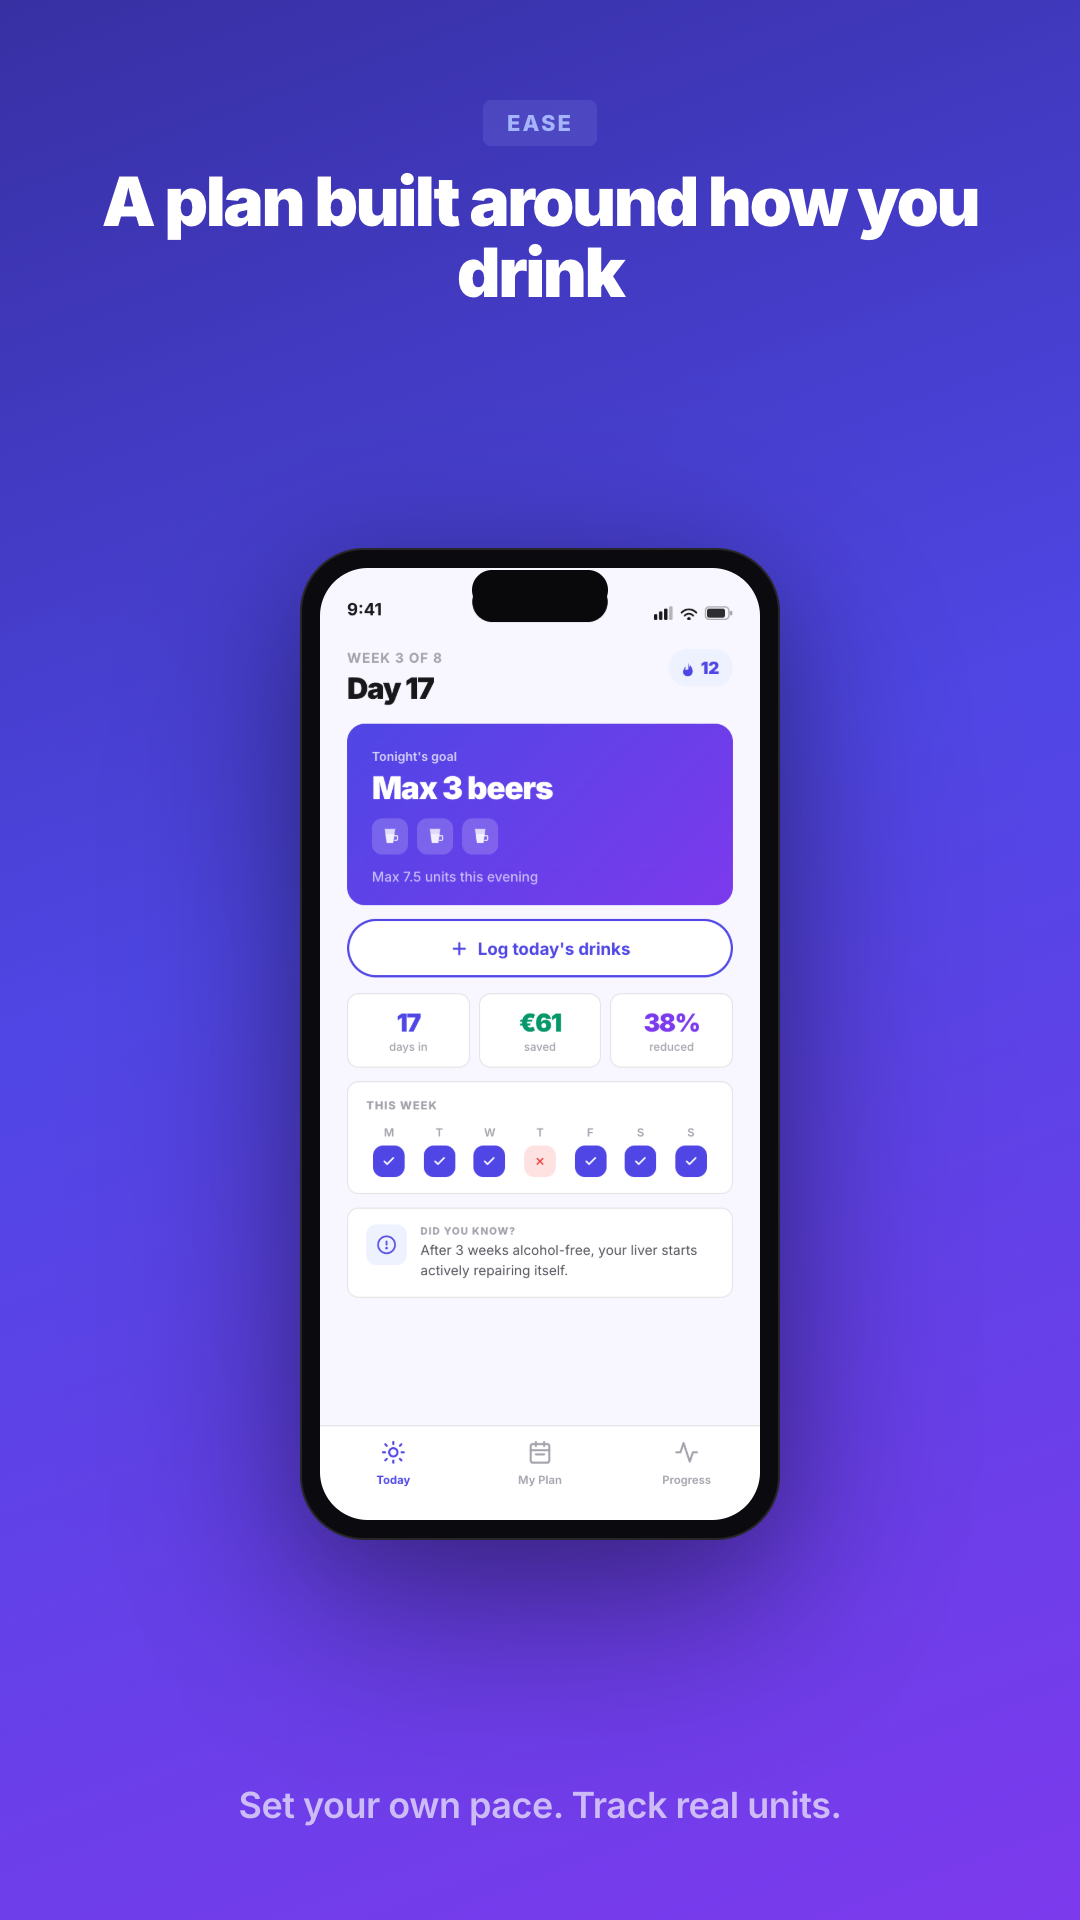
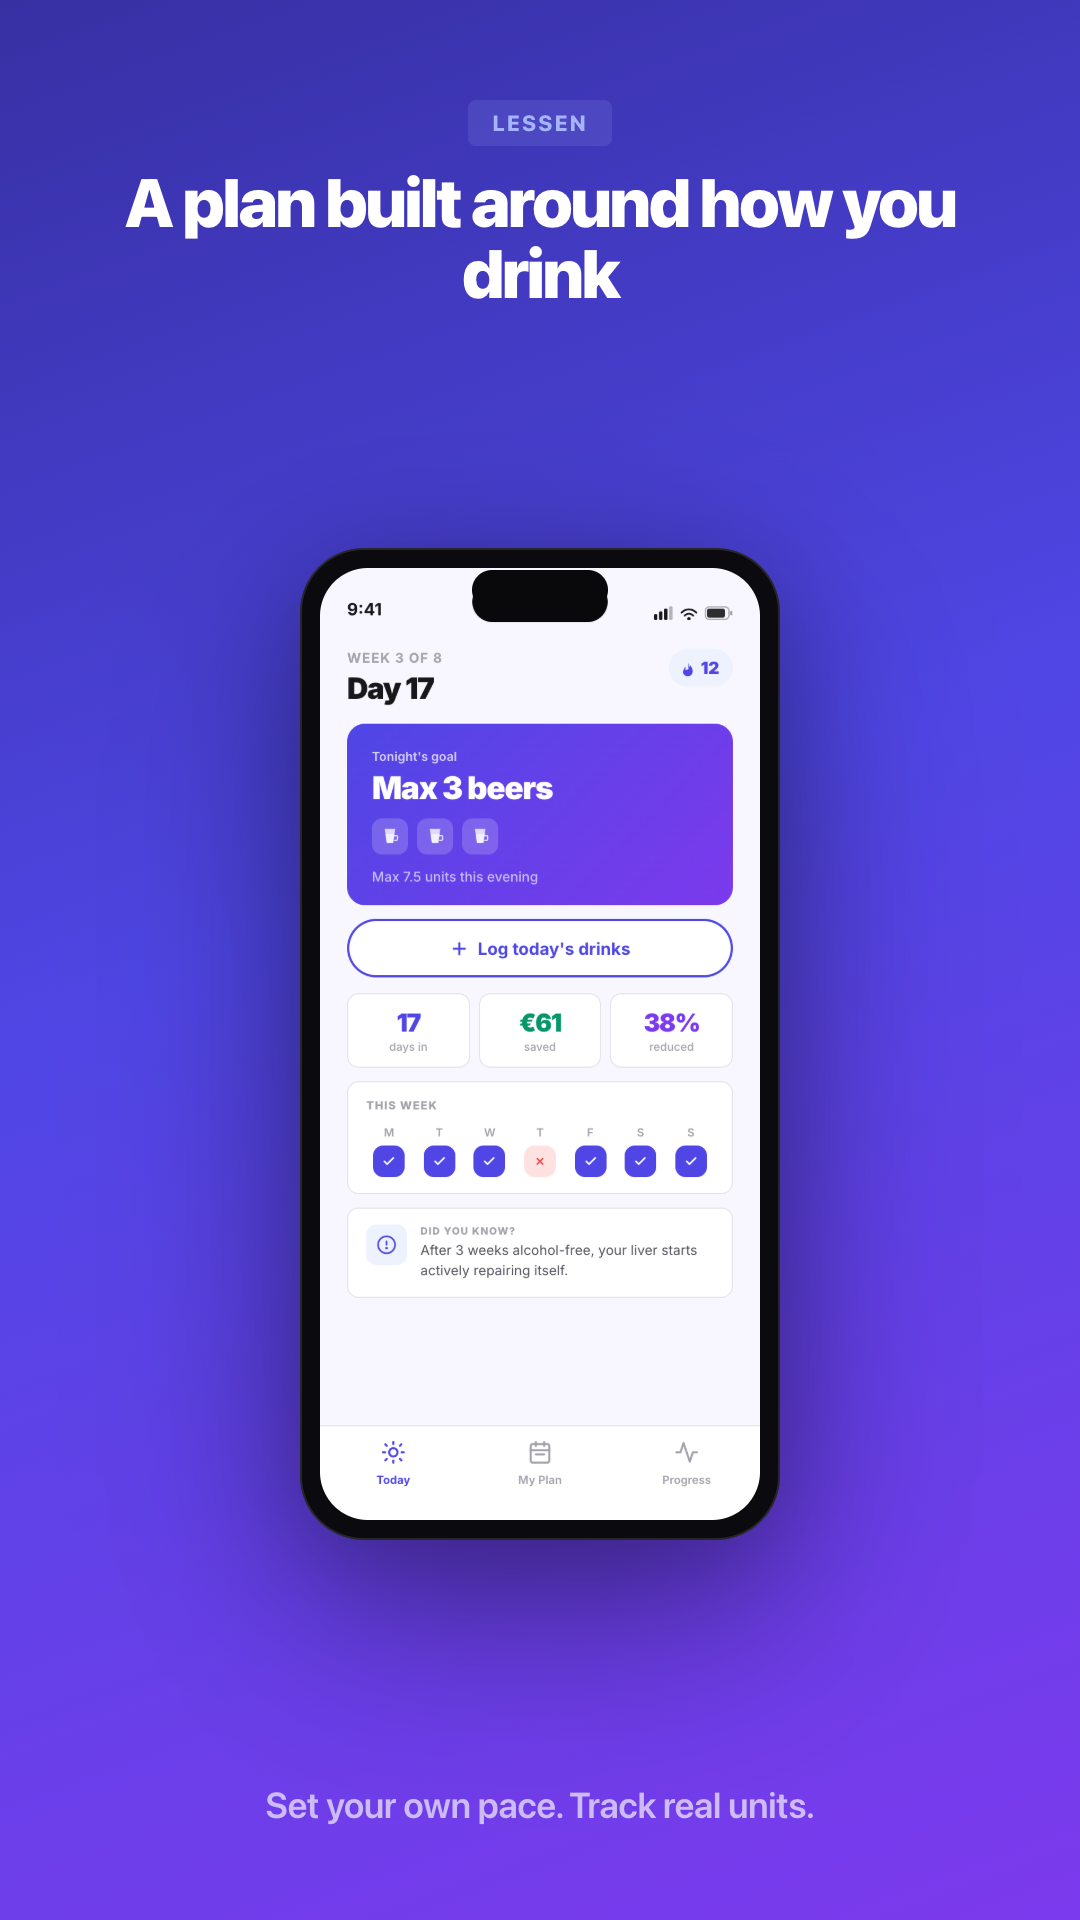
Rename app from Ease to Lessen

Changed region(s): [[0.0917, 0.0625, 0.9167, 0.1562], [0.2139, 0.9375, 0.7639, 0.9688]]

diff --git a/privacy.html b/privacy.html
@@ -3,7 +3,7 @@
 <head>
   <meta charset="UTF-8" />
   <meta name="viewport" content="width=device-width, initial-scale=1.0" />
-  <title>Privacy Policy — Ease</title>
+  <title>Privacy Policy — Lessen</title>
   <link rel="icon" href="favicon.png" />
   <link rel="preconnect" href="https://fonts.googleapis.com" />
   <link rel="preconnect" href="https://fonts.gstatic.com" crossorigin />
@@ -102,7 +102,7 @@
             <div class="logo-bar" style="width:7px"></div>
           </div>
         </div>
-        <span class="nav-logo-name">Ease</span>
+        <span class="nav-logo-name">Lessen</span>
       </a>
       <a href="index.html" class="nav-back">← Back to home</a>
     </div>
@@ -120,18 +120,18 @@
 
     <section>
       <div class="highlight-box">
-        <p>Ease does not collect, store, or transmit any personal data to any server. Everything stays on your phone.</p>
+        <p>Lessen does not collect, store, or transmit any personal data to any server. Everything stays on your phone.</p>
       </div>
     </section>
 
     <section>
       <h2>Who we are</h2>
-      <p>Ease is an alcohol reduction app built and maintained independently. If you have any questions about this policy, contact us at <a href="mailto:angelobendrot@gmail.com">angelobendrot@gmail.com</a>.</p>
+      <p>Lessen is an alcohol reduction app built and maintained independently. If you have any questions about this policy, contact us at <a href="mailto:angelobendrot@gmail.com">angelobendrot@gmail.com</a>.</p>
     </section>
 
     <section>
       <h2>What data the app stores</h2>
-      <p>Ease stores the following data <strong>locally on your device only</strong>, using your phone's built-in storage:</p>
+      <p>Lessen stores the following data <strong>locally on your device only</strong>, using your phone's built-in storage:</p>
       <ul>
         <li>Your drink profile (the types of drinks and their ABV and price you entered during onboarding)</li>
         <li>Your weekly reduction plan (generated locally on your device)</li>
@@ -156,7 +156,7 @@
 
     <section>
       <h2>Notifications</h2>
-      <p>Ease can send you a daily reminder to log your drinks. These are <strong>local notifications</strong> — they are scheduled entirely on your device and no data is sent to any server to make them work. You can disable notifications at any time in your phone's Settings app or within the app itself.</p>
+      <p>Lessen can send you a daily reminder to log your drinks. These are <strong>local notifications</strong> — they are scheduled entirely on your device and no data is sent to any server to make them work. You can disable notifications at any time in your phone's Settings app or within the app itself.</p>
     </section>
 
     <section>
@@ -166,7 +166,7 @@
 
     <section>
       <h2>Third-party services</h2>
-      <p>Ease does not integrate any third-party analytics, advertising, or tracking SDKs. The only third-party involvement is Google Play and the Apple App Store for app distribution and in-app purchases, which are governed by their own privacy policies.</p>
+      <p>Lessen does not integrate any third-party analytics, advertising, or tracking SDKs. The only third-party involvement is Google Play and the Apple App Store for app distribution and in-app purchases, which are governed by their own privacy policies.</p>
     </section>
 
     <section>
@@ -181,7 +181,7 @@
 
     <section>
       <h2>Children's privacy</h2>
-      <p>Ease is intended for adults aged 18 and over. We do not knowingly collect any data from children. If you believe a child is using this app inappropriately, please contact us at <a href="mailto:angelobendrot@gmail.com">angelobendrot@gmail.com</a>.</p>
+      <p>Lessen is intended for adults aged 18 and over. We do not knowingly collect any data from children. If you believe a child is using this app inappropriately, please contact us at <a href="mailto:angelobendrot@gmail.com">angelobendrot@gmail.com</a>.</p>
     </section>
 
     <section>
@@ -208,7 +208,7 @@
             <div class="logo-bar" style="width:6px"></div>
           </div>
         </div>
-        <span class="footer-name">Ease</span>
+        <span class="footer-name">Lessen</span>
         <span class="footer-copy">© 2026</span>
       </div>
       <div class="footer-links">

diff --git a/index.html b/index.html
@@ -3,7 +3,7 @@
 <head>
   <meta charset="UTF-8" />
   <meta name="viewport" content="width=device-width, initial-scale=1.0" />
-  <title>Ease — Drink less. Feel more.</title>
+  <title>Lessen — Drink less. Feel more.</title>
   <meta name="description" content="A personal alcohol reduction plan built around how you actually drink. Track real units, save money, and cut back at your own pace. Free, private, no account needed." />
   <link rel="icon" href="favicon.png" />
   <link rel="preconnect" href="https://fonts.googleapis.com" />
@@ -259,7 +259,7 @@
             <div class="logo-bar" style="width:8px"></div>
           </div>
         </div>
-        <span class="nav-logo-name">Ease</span>
+        <span class="nav-logo-name">Lessen</span>
       </a>
       <div class="nav-links">
         <a href="#how-it-works">How it works</a>
@@ -294,7 +294,7 @@
         <div class="phone-wrap">
           <div class="phone">
             <div class="phone-screen">
-              <img src="screens/today.png" alt="Ease app — Today screen" loading="eager" />
+              <img src="screens/today.png" alt="Lessen app — Today screen" loading="eager" />
             </div>
           </div>
         </div>
@@ -374,7 +374,7 @@
       <div>
         <div class="step-num">02</div>
         <div class="step-title">Get a plan that actually fits you</div>
-        <p class="step-desc">Ease builds a week-by-week reduction plan based on your real numbers — not a generic template. Each step is small enough to stick to.</p>
+        <p class="step-desc">Lessen builds a week-by-week reduction plan based on your real numbers — not a generic template. Each step is small enough to stick to.</p>
         <ul class="step-bullets">
           <li><span class="bullet-dot"><svg viewBox="0 0 24 24"><polyline points="20 6 9 17 4 12"/></svg></span>Targets units — not just drink count</li>
           <li><span class="bullet-dot"><svg viewBox="0 0 24 24"><polyline points="20 6 9 17 4 12"/></svg></span>Choose full sobriety or moderate drinking</li>
@@ -448,7 +448,7 @@
   <div class="container">
     <div class="philosophy-inner fade-up">
       <blockquote>"Cutting back isn't about <em>willpower</em> — it's about having the right plan."</blockquote>
-      <p class="philosophy-sub">No shame. No lectures. No streak-breaking guilt trips. Ease is built on the belief that gradual, honest reduction beats any cold-turkey reset. Progress over perfection. Always.</p>
+      <p class="philosophy-sub">No shame. No lectures. No streak-breaking guilt trips. Lessen is built on the belief that gradual, honest reduction beats any cold-turkey reset. Progress over perfection. Always.</p>
     </div>
   </div>
 </section>
@@ -460,7 +460,7 @@
       <div>
         <span class="tag" style="margin-bottom:20px;display:inline-flex">Supporter edition</span>
         <h2 class="built-by-h">Built by someone who's been there.</h2>
-        <p class="built-by-p">Ease isn't a startup with a growth team and a subscription model. It's one app, built by one person who used gradual reduction to get sober. If it helps you — and you'd like to give something back — you can unlock journal notes for a one-time payment. No subscription. No guilt if you don't.</p>
+        <p class="built-by-p">Lessen isn't a startup with a growth team and a subscription model. It's one app, built by one person who used gradual reduction to get sober. If it helps you — and you'd like to give something back — you can unlock journal notes for a one-time payment. No subscription. No guilt if you don't.</p>
         <div class="built-by-meta">
           <div class="meta-item">
             <div class="meta-dot"><svg viewBox="0 0 24 24"><polyline points="20 6 9 17 4 12"/></svg></div>
@@ -502,7 +502,7 @@
             <div class="logo-bar" style="width:6px"></div>
           </div>
         </div>
-        <span class="footer-name">Ease</span>
+        <span class="footer-name">Lessen</span>
         <span class="footer-copy">© 2026</span>
       </div>
       <div class="footer-links">
